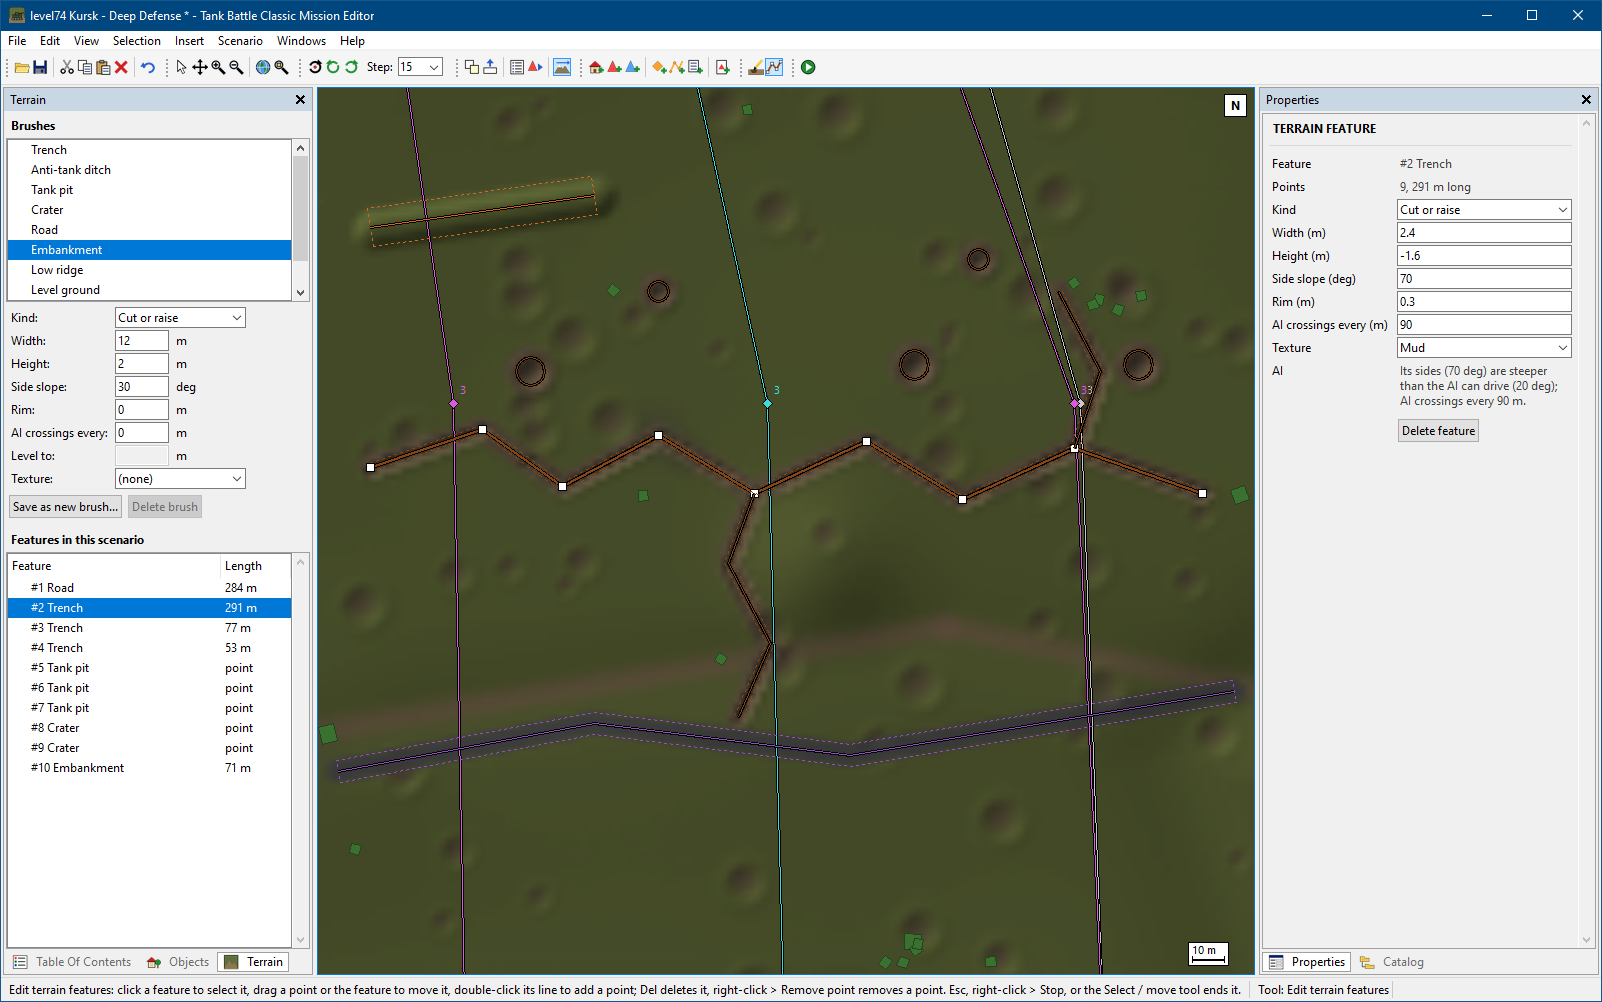
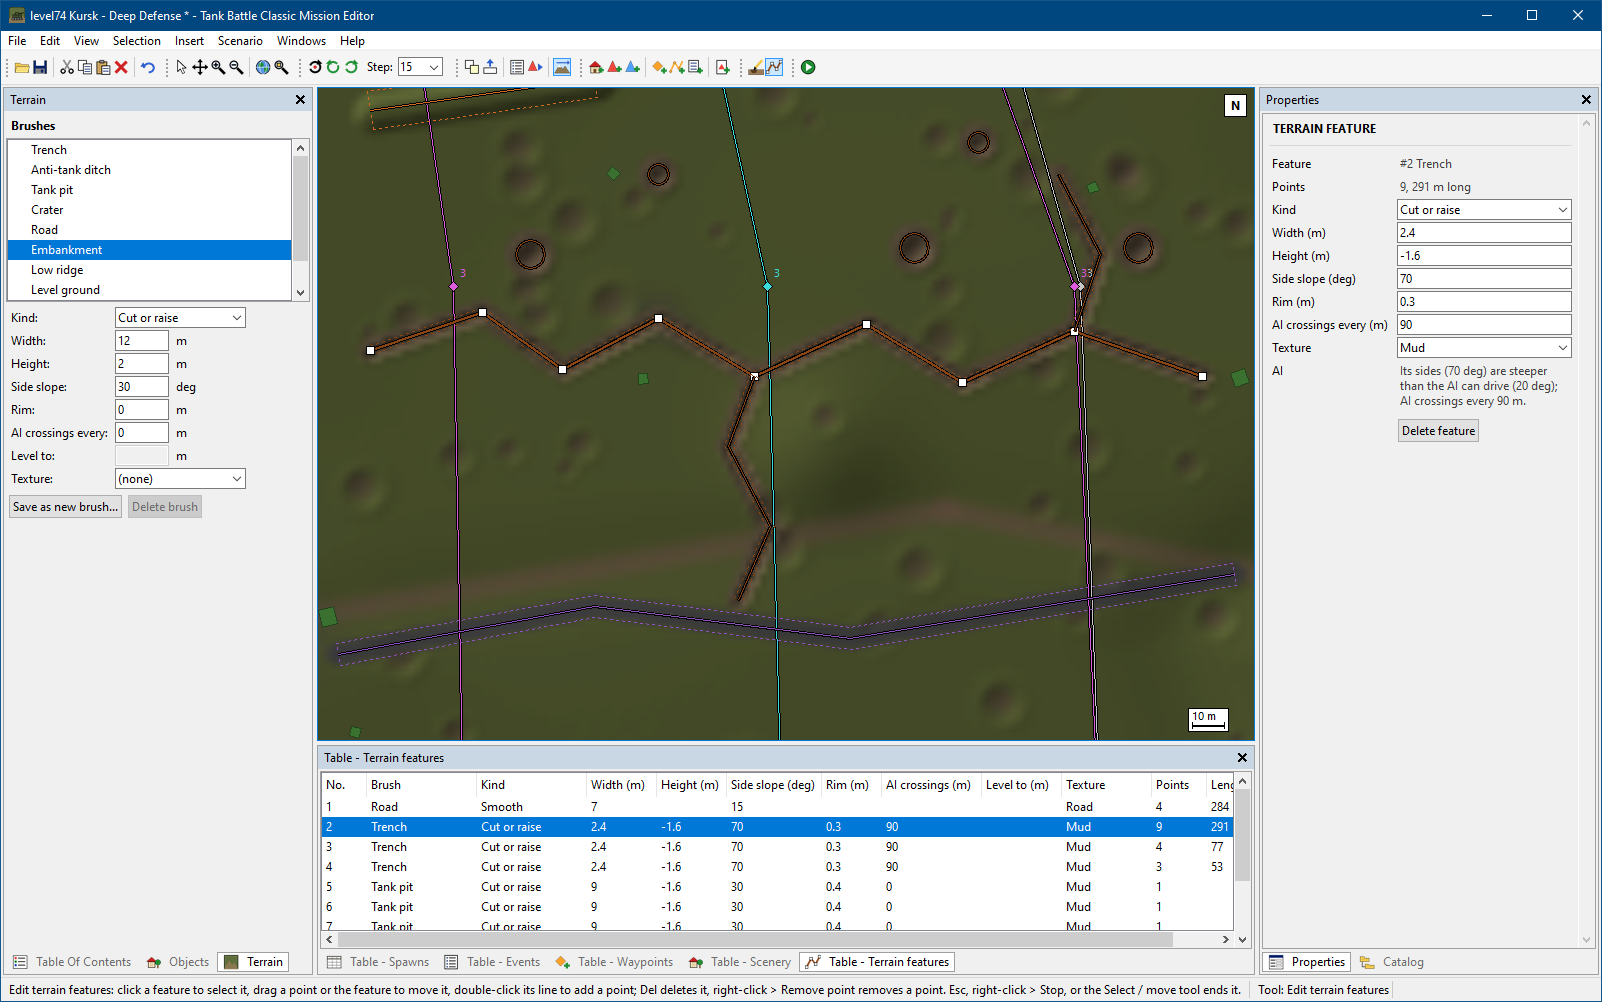
Terrain features table in the bottom panel (1.21.0)
Table - Terrain features lists the features of the open scenario like the
other layers' tables: number, brush, kind, width, height, side slope, rim,
AI crossings, level, texture, points and length. A double-click edits a
cell (one undo step; the ground is recalculated) or zooms to the feature;
selecting a row selects the feature on the map and the other way round. It
opens from the Table Of Contents (Terrain features) and the Windows menu.
The feature list leaves the Terrain tab, which now holds the brushes only.

diff --git a/editor.py b/editor.py
@@ -1328,7 +1328,8 @@ class EditorApp:
                          ("Spawns table", lambda: self.show_page("bottom", "spawns"), "", "table"),
                          ("Events table", lambda: self.show_page("bottom", "events"), "", "events"),
                          ("Waypoints table", lambda: self.show_page("bottom", "waypoints"), "", "addwp"),
-                         ("Scenery table", lambda: self.show_page("bottom", "scenery"), "", "objects")])
+                         ("Scenery table", lambda: self.show_page("bottom", "scenery"), "", "objects"),
+                         ("Terrain features table", lambda: self.show_page("bottom", "features"), "", "tvertex")])
         menu("Help", [("Controls", self.show_controls), ("Open backup folder", self.open_backup_folder),
                       ("About", self.show_about)])
 
@@ -1443,6 +1444,8 @@ class EditorApp:
                          "waypoints")
         self.build_table(self.docks["bottom"].add_page("scenery", "Table - Scenery", self.image("objects")),
                          "scenery")
+        self.build_table(self.docks["bottom"].add_page("features", "Table - Terrain features",
+                                                       self.image("tvertex")), "features")
         self.docks["bottom"].on_select = lambda key: self.refresh_tables()
 
         self.docks["right"] = DockArea(self.hpane, lambda: self.hide_dock("right"))
@@ -1662,7 +1665,8 @@ class EditorApp:
             self.toc.item(k, text=f" {text}" + (f" ({n})" if n is not None else ""))
 
     LAYER_TABLES = {"Spawns": "spawns", "Player": "spawns", "Friendly": "spawns", "Hostile": "spawns",
-                    "Waypoints": "waypoints", "Events": "events", "Scenery": "scenery", "Deleted": "spawns"}
+                    "Waypoints": "waypoints", "Events": "events", "Scenery": "scenery", "Deleted": "spawns",
+                    "Features": "features"}
 
     def open_layer_table(self, key):
         page = self.LAYER_TABLES.get(key) or ("scenery" if key in CATEGORY_COLOURS else None)
@@ -1852,22 +1856,6 @@ class EditorApp:
         ttk.Button(bar, text="Save as new brush...", command=self.save_brush_as).pack(side="left")
         self.brush_del_btn = ttk.Button(bar, text="Delete brush", command=self.delete_brush)
         self.brush_del_btn.pack(side="left", padx=(4, 0))
-        tk.Label(body, text="Features in this scenario", font=UI_BOLD, anchor="w").pack(
-            side="top", fill="x", padx=4, pady=(6, 0))
-        holder = bordered(body)
-        holder.pack(side="top", fill="both", expand=True, padx=2, pady=2)
-        self.feat_tree = ttk.Treeview(holder, columns=("size",), show="tree headings", selectmode="browse",
-                                      height=6)
-        self.feat_tree.heading("#0", text="Feature", anchor="w")
-        self.feat_tree.heading("size", text="Length", anchor="w")
-        self.feat_tree.column("#0", width=150, stretch=True)
-        self.feat_tree.column("size", width=70, stretch=False)
-        sb = ttk.Scrollbar(holder, command=self.feat_tree.yview)
-        self.feat_tree.configure(yscrollcommand=sb.set)
-        sb.pack(side="right", fill="y")
-        self.feat_tree.pack(side="left", fill="both", expand=True)
-        self.feat_tree.bind("<<TreeviewSelect>>", lambda e: self.on_feature_list_select())
-        self.feat_tree.bind("<Double-Button-1>", lambda e: self.frame_feature(self.feature_sel))
         self._feat_sync = self._brush_sync = False
         self.feature_sel = None
         self._vertex_click = None
@@ -2187,11 +2175,27 @@ class EditorApp:
     def feature_name(self, s):
         return s.get("brush") or KIND_NAMES[s["kind"]]
 
+    def feature_row(self, s):
+        """Values of a terrain feature's row in Table - Terrain features."""
+        used = KIND_PARAMS[s["kind"]]
+
+        def num(key):
+            v = s.get(key)
+            return "" if key not in used or v is None else f"{v:g}"
+        names = self.layer_names()
+        tex = s.get("texture")
+        texture = layer_label(names[tex]) if tex is not None and tex < len(names) else ""
+        n = len(s["points"])
+        return (s["id"], s.get("brush", ""), KIND_NAMES[s["kind"]], num("width"), num("height"), num("slope"),
+                num("rim"), num("crossings"), num("level"), texture, n, f"{length(s['points']):.0f}" if n > 1 else "")
+
     def refresh_feature_list(self):
-        t = self.feat_tree
+        """Fill Table - Terrain features (only when the features changed)."""
+        t = getattr(self, "tables", {}).get("features")
+        if t is None:
+            return
         f = self.features()
-        key = (id(f), tuple((s["id"], s.get("brush"), s["kind"], tuple(map(tuple, s["points"])))
-                            for s in f.strokes)) if f is not None else None
+        key = (id(f), tuple(repr(sorted(s.items())) for s in f.strokes)) if f is not None else None
         if key == getattr(self, "_feat_list_key", None) and key is not None:
             if self.feature_sel is not None and f.stroke(self.feature_sel) is None:
                 self.feature_sel = None
@@ -2201,15 +2205,17 @@ class EditorApp:
         t.delete(*t.get_children())
         if f is not None:
             for s in f.strokes:
-                size = f"{length(s['points']):.0f} m" if len(s["points"]) > 1 else "point"
-                t.insert("", "end", iid=str(s["id"]), text=f" #{s['id']} {self.feature_name(s)}", values=(size,))
+                t.insert("", "end", iid=f"f{s['id']}", values=self.feature_row(s))
         if self.feature_sel is not None and (f is None or f.stroke(self.feature_sel) is None):
             self.feature_sel = None
         self.sync_feature_list()
 
     def sync_feature_list(self):
-        t = self.feat_tree
-        want = [str(self.feature_sel)] if self.feature_sel is not None and t.exists(str(self.feature_sel)) else []
+        t = getattr(self, "tables", {}).get("features")
+        if t is None:
+            return
+        iid = f"f{self.feature_sel}"
+        want = [iid] if self.feature_sel is not None and t.exists(iid) else []
         if list(t.selection()) == want:
             return
         self._feat_sync = True
@@ -2224,8 +2230,31 @@ class EditorApp:
     def on_feature_list_select(self):
         if self._feat_sync:
             return
-        sel = self.feat_tree.selection()
-        self.select_feature(int(sel[0]) if sel else None)
+        sel = self.tables["features"].selection()
+        self.select_feature(int(sel[0][1:]) if sel else None)
+
+    def feature_cell_spec(self, sid, key):
+        """Cell editing in Table - Terrain features, as cell_spec()."""
+        f = self.features()
+        s = f.stroke(sid) if f is not None else None
+        if s is None:
+            return None
+        if key == "brush":
+            def rename(v):
+                cur = f.stroke(sid)
+                self.replace_feature(cur, dict(cur, brush=v.strip()), "Rename terrain feature")
+            return None, s.get("brush", ""), rename
+        if key == "kind":
+            return ([(KIND_NAMES[k], k) for k in KINDS], s["kind"],
+                    lambda v: self.set_feature_param(sid, "kind", v))
+        if key == "texture":
+            names = self.layer_names()
+            return ([("(none)", None)] + [(layer_label(n), i) for i, n in enumerate(names)], s.get("texture"),
+                    lambda v: self.set_feature_param(sid, "texture", v))
+        if key in ("width", "height", "slope", "rim", "crossings", "level") and key in KIND_PARAMS[s["kind"]]:
+            v = s.get(key)
+            return None, "" if v is None else f"{v:g}", lambda val, k=key: self.set_feature_param(sid, k, val)
+        return None
 
     def select_feature(self, sid):
         """Select terrain feature `sid` (None: none); objects are deselected."""
@@ -2772,6 +2801,10 @@ class EditorApp:
                       ("z", "Z", 70), ("used", "Used by", 300)],
         "scenery": [("name", "Name", 220), ("category", "Category", 120), ("x", "X", 70), ("z", "Z", 70),
                     ("heading", "Heading", 60), ("scale", "Scale", 60), ("status", "Status", 60)],
+        "features": [("no", "No.", 45), ("brush", "Brush", 110), ("kind", "Kind", 110), ("width", "Width (m)", 70),
+                     ("height", "Height (m)", 70), ("slope", "Side slope (deg)", 95), ("rim", "Rim (m)", 60),
+                     ("crossings", "AI crossings (m)", 100), ("level", "Level to (m)", 80),
+                     ("texture", "Texture", 90), ("points", "Points", 55), ("length", "Length (m)", 75)],
     }
 
     def build_table(self, body, kind):
@@ -2788,7 +2821,11 @@ class EditorApp:
         ys.pack(side="right", fill="y")
         xs.pack(side="bottom", fill="x")
         tv.pack(side="left", fill="both", expand=True)
-        tv.bind("<<TreeviewSelect>>", lambda e, t=tv: self.on_table_select(t))
+        if kind == "features":
+            tv.configure(selectmode="browse")
+            tv.bind("<<TreeviewSelect>>", lambda e: self.on_feature_list_select())
+        else:
+            tv.bind("<<TreeviewSelect>>", lambda e, t=tv: self.on_table_select(t))
         tv.bind("<Double-Button-1>", lambda e, t=tv, k=kind: self.on_table_double(t, k, e))
         tv.bind("<F2>", lambda e, t=tv, k=kind: self.edit_cell(t, k, t.focus(), None))
         if kind == "waypoints":
@@ -2806,7 +2843,10 @@ class EditorApp:
         if tv.identify_region(e.x, e.y) != "cell":
             return None
         if not self.edit_cell(tv, kind, tv.identify_row(e.y), tv.identify_column(e.x)):
-            self.frame_selection()
+            if kind == "features":
+                self.frame_feature(self.feature_sel)
+            else:
+                self.frame_selection()
         return "break"
 
     def cell_spec(self, kind, go, key):
@@ -2967,7 +3007,10 @@ class EditorApp:
         idx = int(col[1:]) - 1
         if not 0 <= idx < len(keys):
             return False
-        spec = self.cell_spec(kind, int(iid), keys[idx])
+        if kind == "features":
+            spec = self.feature_cell_spec(int(iid[1:]), keys[idx])
+        else:
+            spec = self.cell_spec(kind, int(iid), keys[idx])
         if spec is None:
             return False
         choices, current, commit = spec
@@ -3054,8 +3097,10 @@ class EditorApp:
             return
         m = self.model
         for kind, tv in self.tables.items():
-            if kind != "scenery":
+            if kind not in ("scenery", "features"):
                 tv.delete(*tv.get_children())
+        self._feat_list_key = None
+        self.refresh_feature_list()
         if not m:
             self.tables["scenery"].delete(*self.tables["scenery"].get_children())
             self._scenery_table_key = None
@@ -3150,7 +3195,9 @@ class EditorApp:
             return
         self._table_sync = True
         try:
-            for tv in self.tables.values():
+            for kind, tv in self.tables.items():
+                if kind == "features":
+                    continue
                 want = [str(g) for g in self.sel if tv.exists(str(g))]
                 if set(want) != set(tv.selection()):
                     tv.selection_set(want)

diff --git a/tests/test_tools.py b/tests/test_tools.py
@@ -167,7 +167,21 @@ class ToolTest(unittest.TestCase):
         f = app.features()
         self.assertEqual(len(f.strokes), 1)
         self.assertAlmostEqual(m.ground(x, z) - g0, -1.6, delta=0.05, msg="the trench is cut 1.6 m deep")
-        self.assertEqual(app.feat_tree.get_children(), (str(f.strokes[0]["id"]),))
+        table = app.tables["features"]
+        self.assertEqual(table.get_children(), (f"f{f.strokes[0]['id']}",))
+        self.assertEqual(table.set(f"f{f.strokes[0]['id']}", "brush"), "Trench")
+        self.assertEqual(table.set(f"f{f.strokes[0]['id']}", "height"), "-1.6")
+        # editing a cell changes the feature (one undo step) and the ground
+        app.feature_cell_spec(f.strokes[0]["id"], "height")[2]("-1.0")
+        self.assertAlmostEqual(m.ground(x, z) - g0, -1.0, delta=0.05)
+        self.assertEqual(table.set(f"f{f.strokes[0]['id']}", "height"), "-1")
+        self.assertIsNone(app.feature_cell_spec(f.strokes[0]["id"], "level"), "not used by a cut")
+        app.undo()
+        self.assertAlmostEqual(m.ground(x, z) - g0, -1.6, delta=0.05)
+        table.selection_set(f"f{f.strokes[0]['id']}")
+        self.root.update()
+        self.assertEqual(app.feature_sel, f.strokes[0]["id"], "a table row selects the feature")
+        app.select_feature(None)
         # a second stroke over the same line does not deepen it
         app.on_press(Click(100, 150, time=7000))
         app.on_press(Click(200, 150, time=9000))

diff --git a/version.py b/version.py
@@ -3,6 +3,6 @@
 """Application name, version and copyright (Help > About and the executable)."""
 
 APP_NAME = "Tank Battle Classic Mission Editor"
-__version__ = "1.20.0"
+__version__ = "1.21.0"
 AUTHOR = "fierman"
 COPYRIGHT = "Copyright (C) 2026 fierman"

diff --git a/README.md b/README.md
@@ -9,7 +9,7 @@ https://store.steampowered.com/app/5086560/Tank_Battle_Classic/
 
 ![Events and trigger areas: the Objects pane, an event with its trigger area, and the events table](docs/screenshot-events.png)
 
-![Terrain features: trenches, tank pits, craters, a road and an embankment drawn with brushes; a selected trench and its properties](docs/screenshot-terrain.png)
+![Terrain features: trenches, tank pits, craters, a road and an embankment drawn with brushes; a selected trench, its properties and the features table](docs/screenshot-terrain.png)
 
 ## Start
 
@@ -26,7 +26,8 @@ changes.
 - Events with timers, destroyed tanks or trigger areas, for example waves.
 - New scenarios from a mission or on an empty terrain, with a choice of player tanks.
 - Terrain features for custom scenarios: trenches, tank pits, roads and more,
-  drawn as lines or points with ready-made or own brushes, and editable later.
+  drawn as lines or points with ready-made or own brushes, editable on the map
+  and in their table.
 - AI tanks of custom scenarios drive around changed terrain and objects.
 - Back up, export and import scenarios.
 
